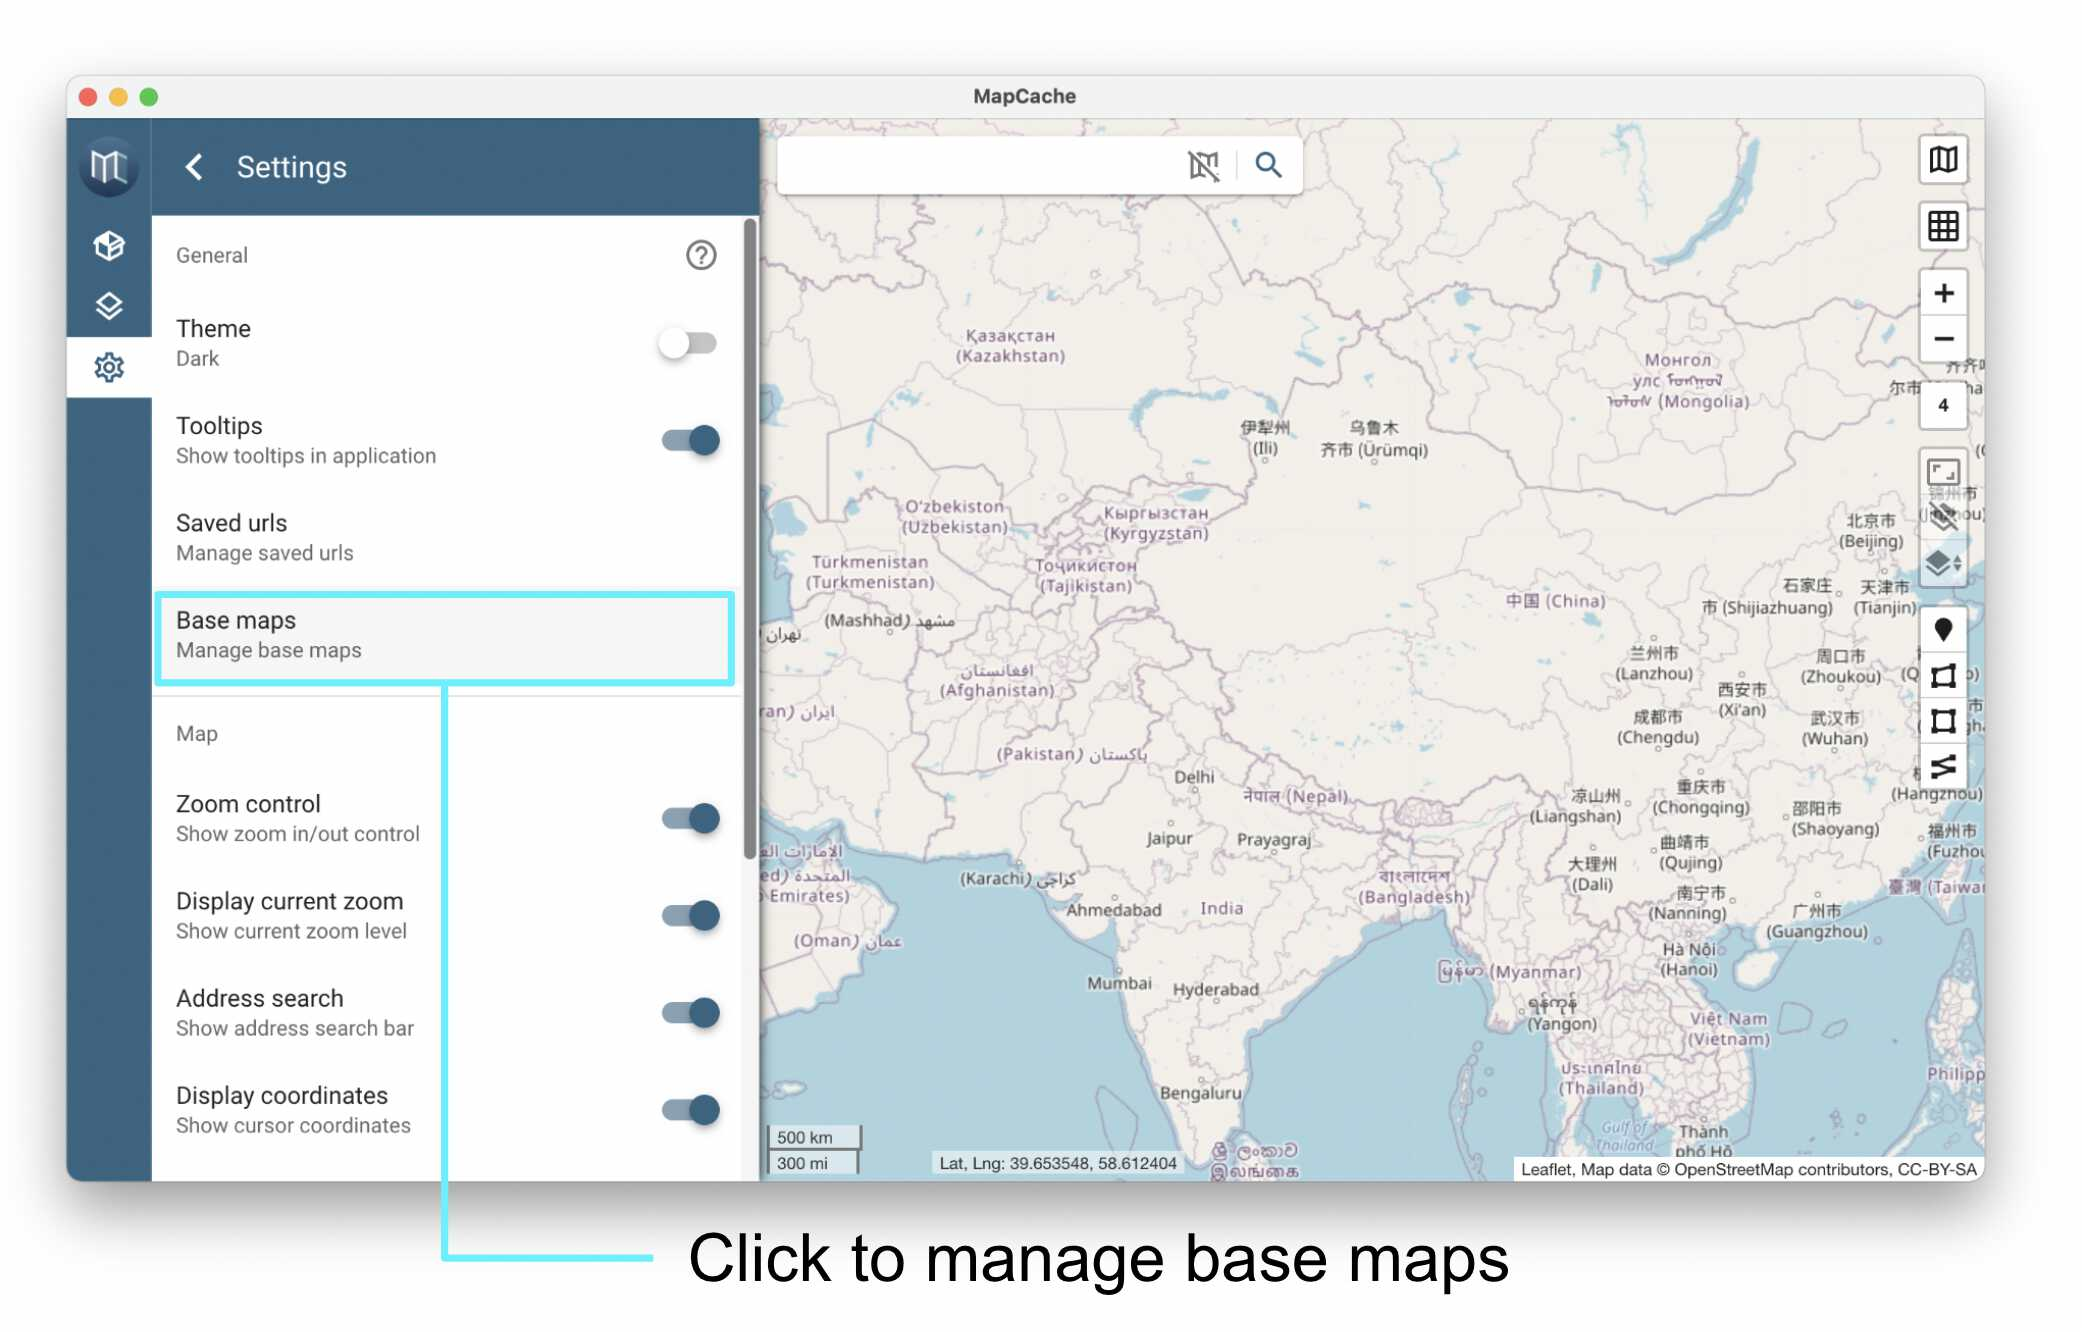
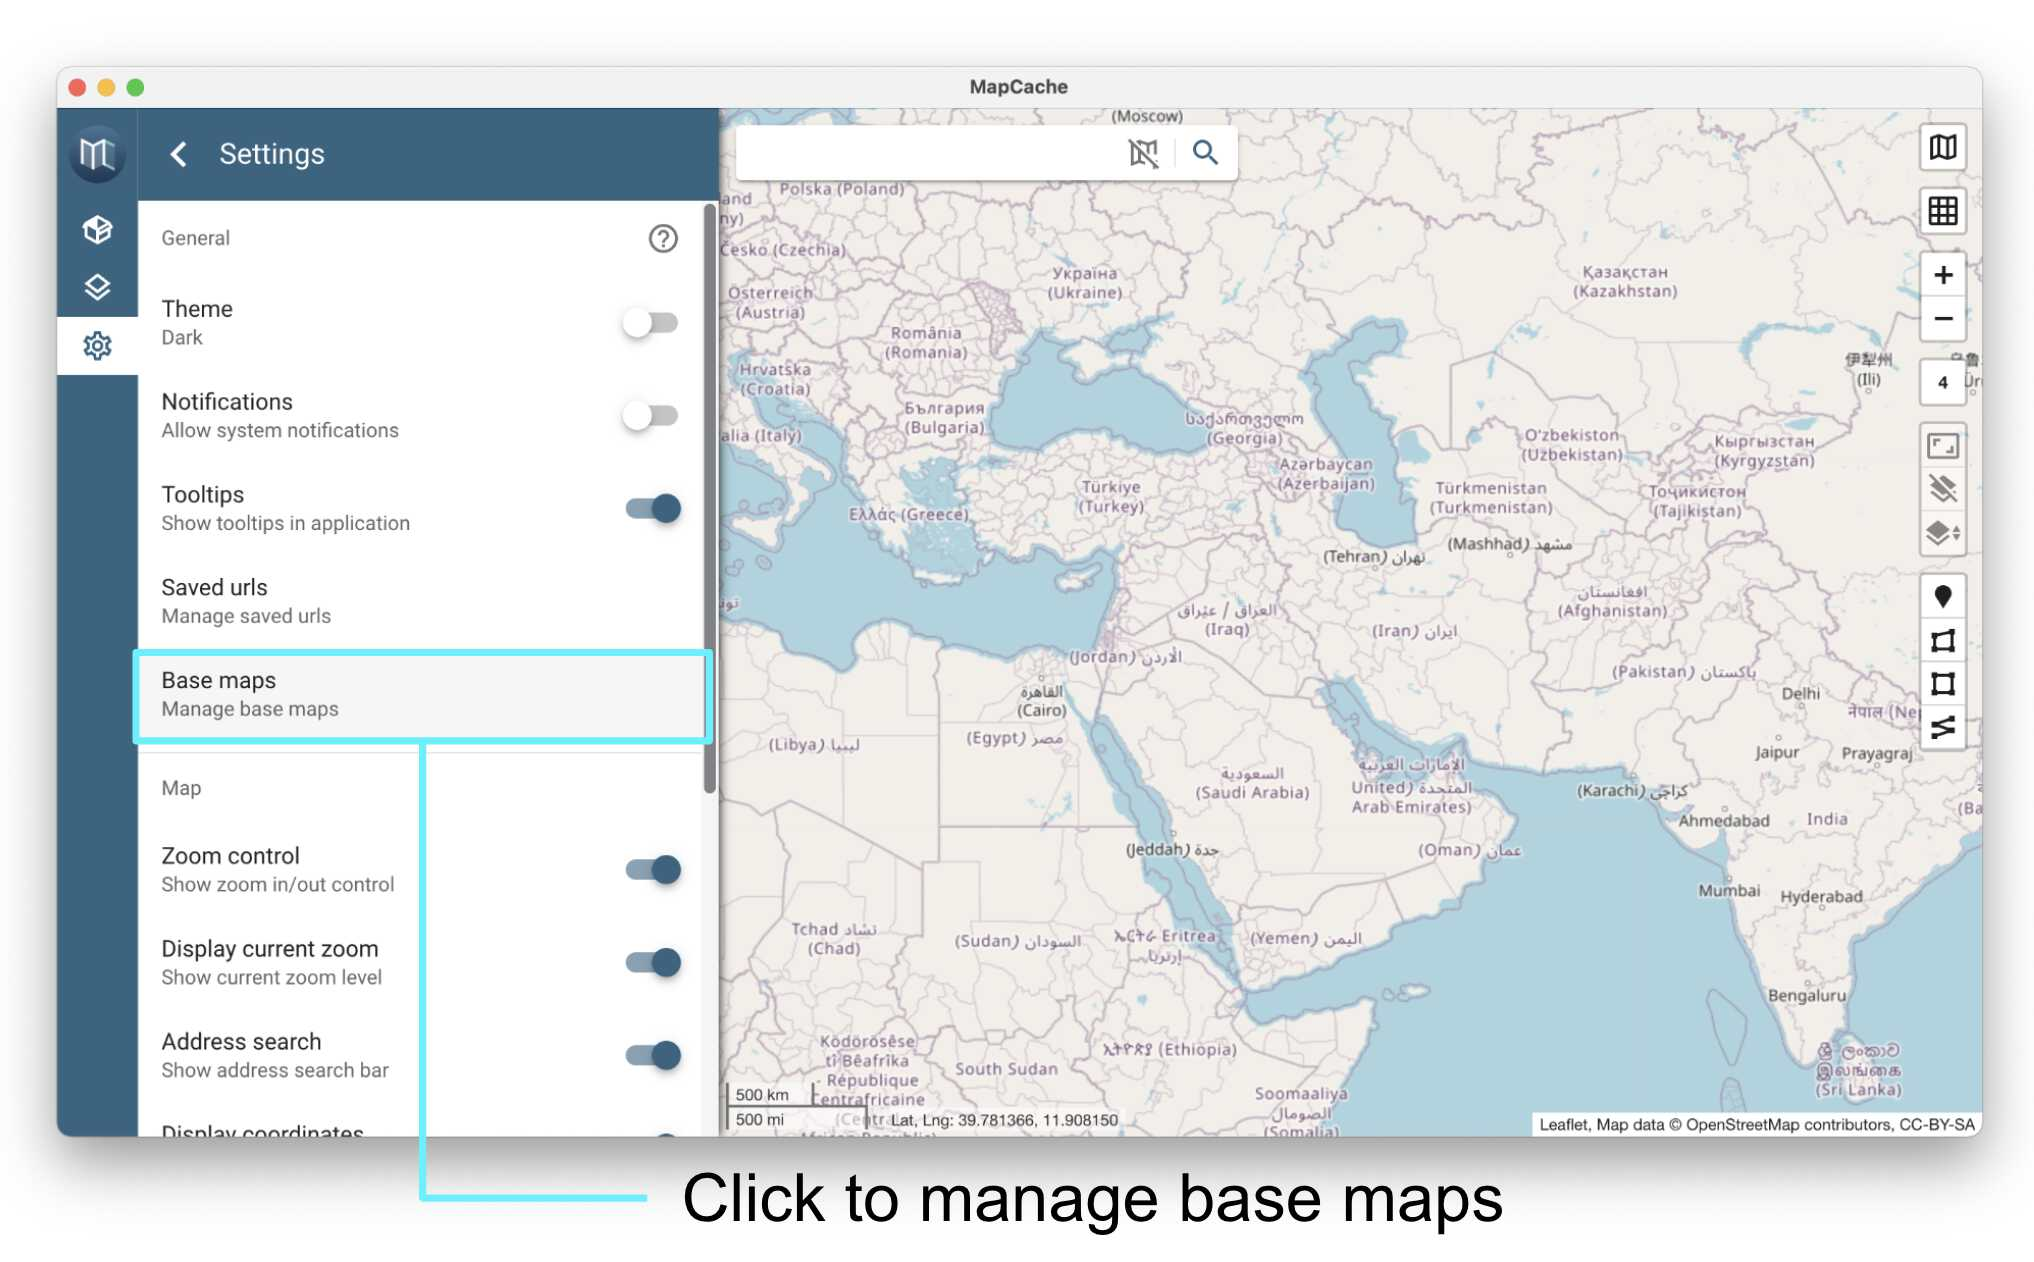
make changes to user guide for new notification setting and version change

diff --git a/src/views/Documentation/UserGuide/Settings.vue b/src/views/Documentation/UserGuide/Settings.vue
@@ -37,6 +37,18 @@ export default {
             },
             {
               order: 2,
+              title: `<b>Enable</b>&nbsp;system notifications`,
+              introduction: 'MapCache supports alerting users when long running tasks complete using system notifications. Some of these tasks include creating a feature layer, creating a tile layer, and importing a data source. This allows a user to minimize a window and perform other tasks.',
+              sections: [
+                {
+                  paragraph: `In the settings <svg width="24px" height="24" style="margin-bottom: -6px;"><path d="${mdiCogOutline}"></path></svg> section, under General, toggle the notifications switch to enable or disable system notifications.`,
+                  image: '/images/documentation/settings_articles/system_notifications.jpg',
+                  note: 'Depending on how your system\'s notification settings are configured, enabling this setting may or may not display notifications.'
+                }
+              ],
+            },
+            {
+              order: 4,
               title: `<b>Disable</b>&nbsp;tooltips`,
               introduction: `Tooltips are provided to help provide context for the meaning of certain buttons in MapCache. These tooltips can be disabled if they are no longer useful.`,
               sections: [

diff --git a/src/views/Documentation/ReleaseNotes.vue b/src/views/Documentation/ReleaseNotes.vue
@@ -83,14 +83,16 @@ export default {
           title: 'MapCache 1.3.0',
           releaseDate: 'TBD',
           bugFixes: [
-            'Fix for dark mode style issue for nominatim results',
-            'Fix for grids in dark mode being hard to see',
+            'Fix for dark mode style issue for nominatim results.',
+            'Fix for grids in dark mode being hard to see.',
+            'More consistent alerts.'
           ],
           newFeatures: [
             'Dark theme added for OSM base maps.',
             'Release notes are now shipped with the application for viewing offline.',
             'Feature layers now utilize streaming during the build to prevent high memory utilization.',
-            'Added user guide.'
+            'Added user guide.',
+            'Added system notification setting.'
           ],
         },
         {

diff --git a/changelog/v1.3.0.md b/changelog/v1.3.0.md
@@ -6,11 +6,13 @@ This release includes several features and bug fixes.
  * Dark theme added for OSM basemaps.
  * Release notes are now shipped with the application for viewing offline.
  * Feature layers now utilize streaming during the build to prevent high memory utilization. 
- * Added user guide
+ * Added user guide.
+ * Added system notification setting.
  
 ## Bug Fixes
- * Fix for dark mode style issue for nominatim results
- * Fix for grids in dark mode being hard to see
+ * Fix for dark mode style issue for nominatim results.
+ * Fix for grids in dark mode being hard to see.
+ * More consistent alerts.
 
 ## Previous Versions
  * [v1.2.0](https://github.com/ngageoint/mapcache-electron/blob/v1.2.0/changelog/v1.2.0.md)
